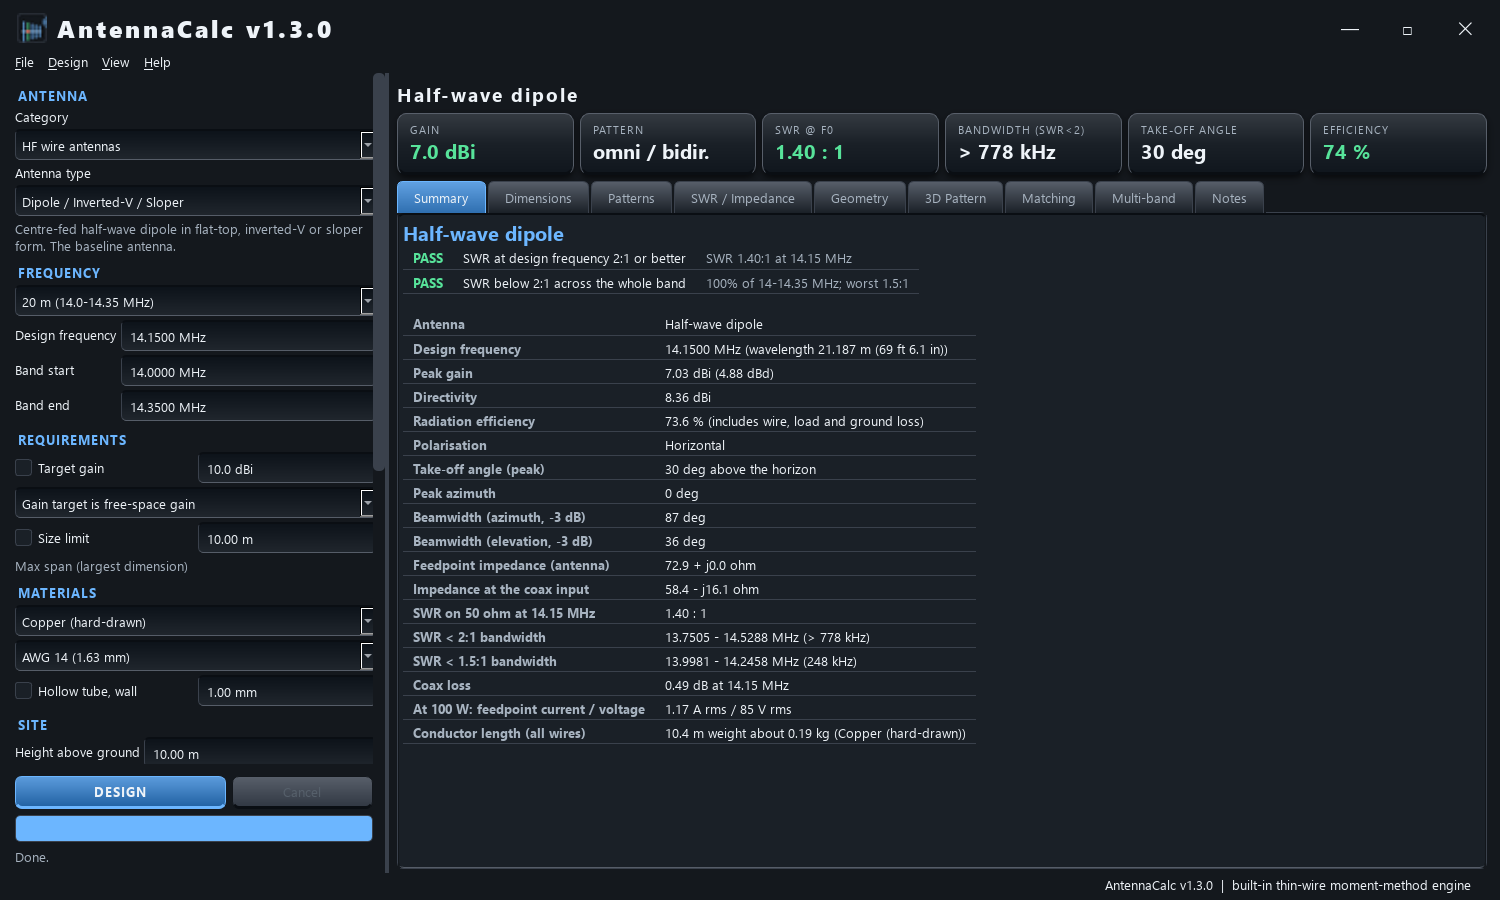
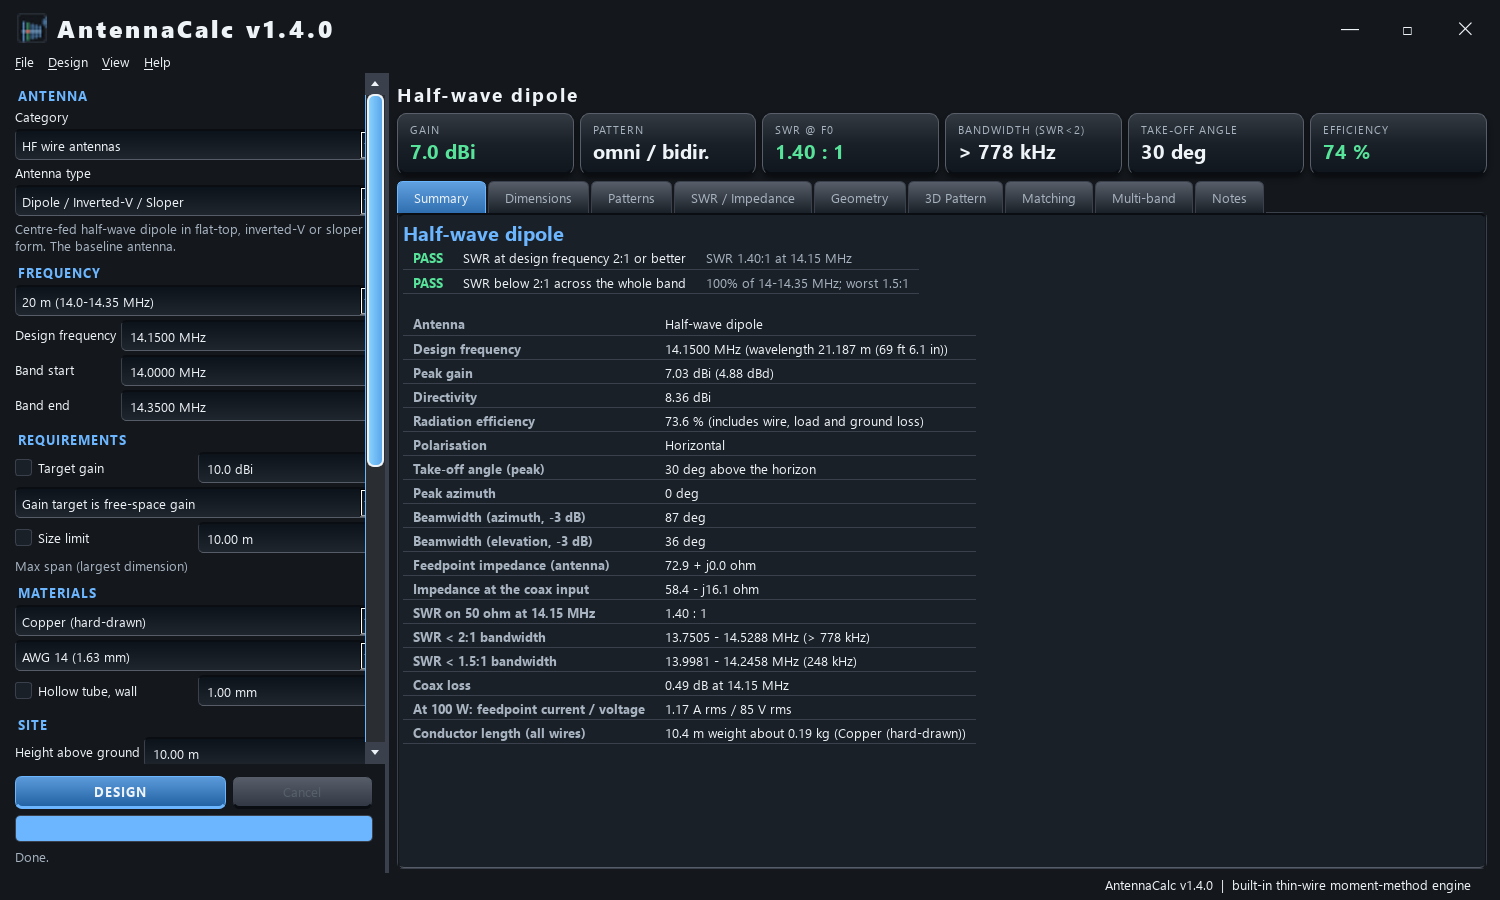
User guide: wire arrays section and screenshots; W8JK note wording

Changed region(s): [[0.2453, 0.0933, 0.276, 0.5289], [0.2453, 0.8089, 0.276, 0.8711]]

diff --git a/build_user_guide.py b/build_user_guide.py
@@ -226,6 +226,36 @@ def build():
     s.append(P("A dish for a 13 cm link", style_h2))
     s.append(P("Select <i>Microwave antennas - Parabolic dish</i>, band 13 cm, and enter a target gain. The dish diameter, focal length, depth and the feed illumination angle follow from the gain and the f/D ratio and aperture efficiency you set."))
     s.append(shot("10_dish.png", "Dish pattern for a 28 dBi target.", width=5.0 * inch))
+    s.append(P("Wire arrays: Bobtail, Bruce, Sterba and W8JK", style_h2))
+    s.append(P("Four arrays that get gain from phasing a few wires rather than from a boom. All are single-band; set the band first, then the options. "
+               "Each array has a <b>direction</b> setting: it is the compass bearing of the main lobe (broadside to the wires for the curtains and the Bruce array, along the line joining the elements for the W8JK). "
+               "Bidirectional arrays have a second lobe on the opposite bearing."))
+    s.append(P("Half-square / Bobtail curtain (Directional beams)", style_h3))
+    s.append(P("Quarter-wave verticals hung from half-wave top wires: two verticals for the half-square, three for the Bobtail. The array is fed at the base of one vertical against a radial system "
+               "(set the number of radials in <b>Antenna options</b>); the other lower ends are open and held at the <i>lower-end height</i>. The feed point is a voltage maximum, so expect several kilohms "
+               "(about 5.5 k&Omega; for the 40 m Bobtail) - the matching L-network is switched on by default. The 40 m Bobtail below gives 4.3 dBi at a 22 degree take-off, about 3.6 dB more than a single "
+               "ground-mounted vertical with the same radials; the half-square is about 0.8 dB lower."))
+    s.append(shot("13_bobtail_patterns.png", "Bobtail curtain on 40 m: two broadside lobes (north and south) at a low take-off angle.", width=4.8 * inch))
+    s.append(shot("13b_bobtail_geo.png", "Geometry: three verticals, the top wire, and the feed (red) at the base of the centre vertical.", width=4.4 * inch))
+    s.append(P("Bruce array (Directional beams)", style_h3))
+    s.append(P("One continuous wire folded into quarter-wave vertical and horizontal runs, end-fed against ground. The number of vertical sections (2 to 14) sets the gain, "
+               "and with a gain target and a width limit the program chooses it for you. Six sections on 40 m give about 6.6 dBi, bidirectional and broadside, with a feed resistance of a few hundred ohms "
+               "(the default 4:1 transformer brings it near 50 ohm). In a long end-fed Bruce the current falls toward the far end, so the two lobes become unequal."))
+    s.append(shot("14_bruce_patterns.png", "Six-section Bruce array on 40 m.", width=4.8 * inch))
+    s.append(shot("14b_bruce_geo.png", "Geometry: the folded wire, fed at the base of the first vertical.", width=4.4 * inch))
+    s.append(P("Sterba curtain (HF wire antennas)", style_h3))
+    s.append(P("Two rows, half a wavelength apart, of in-phase half-wave sections. Choose the number of sections per row (2 to 10; the program can pick it from a gain target) and, optionally, "
+               "a reflector curtain a quarter wavelength behind, which makes the pattern a single lobe. The example is a 4 x 2 curtain with reflector on 20 m at 10 m: 17.7 dBi at an 18 degree take-off, "
+               "about 10 dB front-to-back. The rows are driven by ideal in-phase sources, so the impedance shown is the parallel combination; a real curtain is fed through half-wave open-wire phasing lines "
+               "and shows several hundred ohms (see the notes). Height is that of the lower row."))
+    s.append(shot("15_sterba_patterns.png", "Sterba curtain, 4 x 2 sections with reflector, 20 m.", width=4.8 * inch))
+    s.append(shot("15b_sterba_geo.png", "Geometry: two rows of collinear sections, with the unfed reflector row behind.", width=4.4 * inch))
+    s.append(P("W8JK flat-top (Directional beams)", style_h3))
+    s.append(P("Two parallel horizontal dipoles fed out of phase: bidirectional end-fire along the line that joins them (north and south in the picture; the wires run east-west). "
+               "<b>Element spacing</b> (default 1/8 wavelength) and <b>element length</b> (0.5 to 0.7 wavelength) are the options. The feed point is only a few ohms at 1/8 wavelength spacing and rises "
+               "toward a quarter wavelength, so a matching network is needed. On 20 m at 12 m high the default gives 9.8 dBi, about 2 dB over a dipole at the same height, with the lobes along the spacing direction."))
+    s.append(shot("16_w8jk_patterns.png", "W8JK flat-top on 20 m at 12 m height.", width=4.8 * inch))
+    s.append(shot("16b_w8jk_geo.png", "Geometry: two parallel dipoles, each with its own feed point (fed together, out of phase).", width=4.4 * inch))
     s.append(PageBreak())
 
     # ------------------------------------------------------------------ catalog

diff --git a/scripts/guide_screens.py b/scripts/guide_screens.py
@@ -97,4 +97,51 @@ def trap(i):
 design("trap_dipole", trap)
 shot("11_trap.png", T["bands"])
 shot("11b_trap_dims.png", T["dims"])
+
+# ---- wire arrays added in v1.4.0 -------------------------------------------------------------
+def _band(label):
+    def f(i):
+        i.band.setCurrentText(label)
+    return f
+
+def _opt(i, **kw):
+    i.gain_on.setChecked(False); i.size_on.setChecked(False)      # state left over from the dish example
+    for k, (p, wd) in i.param_widgets.items():
+        if k in kw:
+            v = kw[k]
+            if hasattr(wd, "findData") and hasattr(wd, "setCurrentIndex") and not hasattr(wd, "setChecked"):
+                wd.setCurrentIndex(max(wd.findData(v), 0))
+            elif hasattr(wd, "setChecked"):
+                wd.setChecked(bool(v))
+            else:
+                wd.setValue(v)
+
+def bobtail(i):
+    i.band.setCurrentText("40 m (7.0-7.3 MHz)"); _opt(i, variant="bobtail")
+design("curtain", bobtail)
+shot("13_bobtail_patterns.png", T["patterns"])
+w.geo.set_view(35, 25)
+shot("13b_bobtail_geo.png", T["geo"])
+
+def bruce(i):
+    i.band.setCurrentText("40 m (7.0-7.3 MHz)"); _opt(i, n=6)
+design("bruce", bruce)
+shot("14_bruce_patterns.png", T["patterns"])
+w.geo.set_view(35, 25)
+shot("14b_bruce_geo.png", T["geo"])
+
+def sterba(i):
+    i.band.setCurrentText("20 m (14.0-14.35 MHz)"); _opt(i, nsec=4, reflector=True)
+design("sterba", sterba)
+shot("15_sterba_patterns.png", T["patterns"])
+w.geo.set_view(35, 25)
+shot("15b_sterba_geo.png", T["geo"])
+
+def w8jk(i):
+    i.gain_on.setChecked(False); i.size_on.setChecked(False)
+    i.band.setCurrentText("20 m (14.0-14.35 MHz)")
+design("w8jk", w8jk)
+shot("16_w8jk_patterns.png", T["patterns"])
+w.geo.set_view(35, 25)
+shot("16b_w8jk_geo.png", T["geo"])
 print("done")

diff --git a/antennacalc/models_arrays.py b/antennacalc/models_arrays.py
@@ -235,7 +235,7 @@ def b_w8jk(req, ex, sc):
     d.dim("Height", 1, H, "")
     d.notes += ["Two close-spaced, anti-phase dipoles give bidirectional end-fire gain along the line that joins them; "
                 "the lobes point along the spacing direction, not along the wires.",
-                "Gain is about 3 dB over a dipole at 1/8 wavelength spacing and rises slightly at 1/4; it is a low-impedance array "
+                "Gain is roughly 2-3 dB over a dipole at the same height at 1/8 wavelength spacing and rises slightly at 1/4; it is a low-impedance array "
                 "(the feed point is a few tens of ohms with large reactance), so a matching network is needed.",
                 "Longer (about 0.625 wavelength) elements add roughly 1 dB and let the antenna work on its second harmonic band as well."]
     size_warn(d, req, 2 * half, "Element length")
